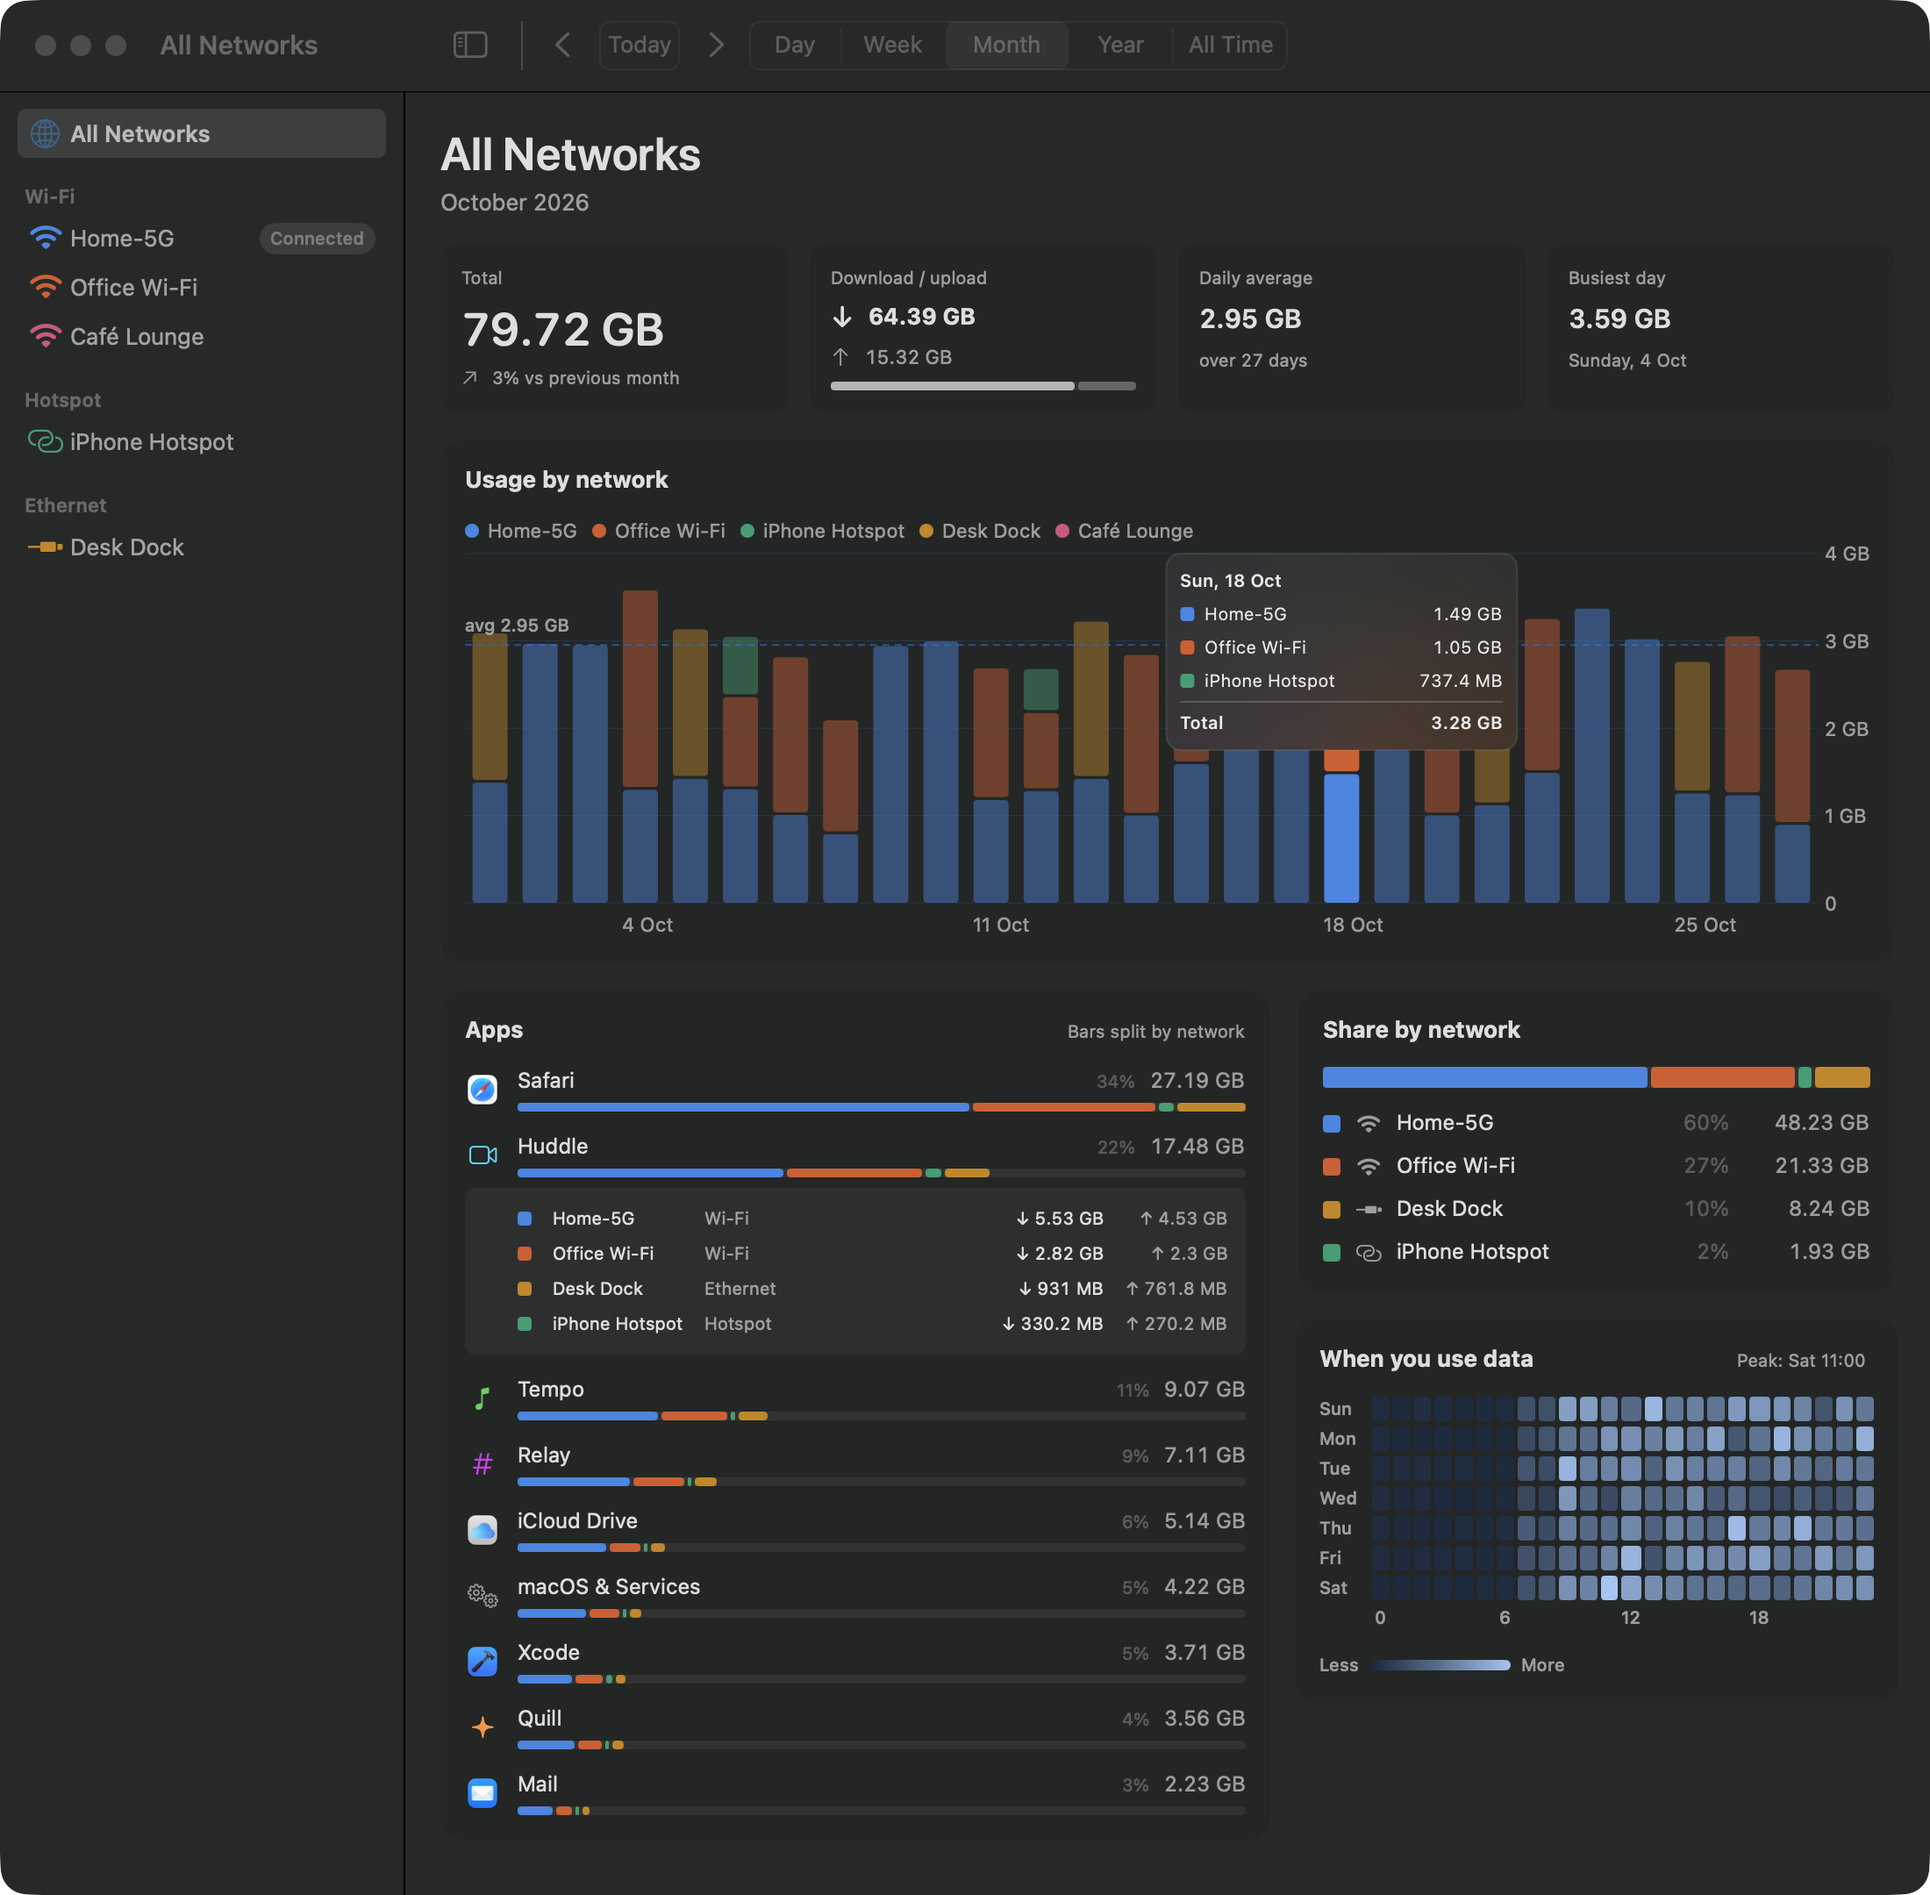
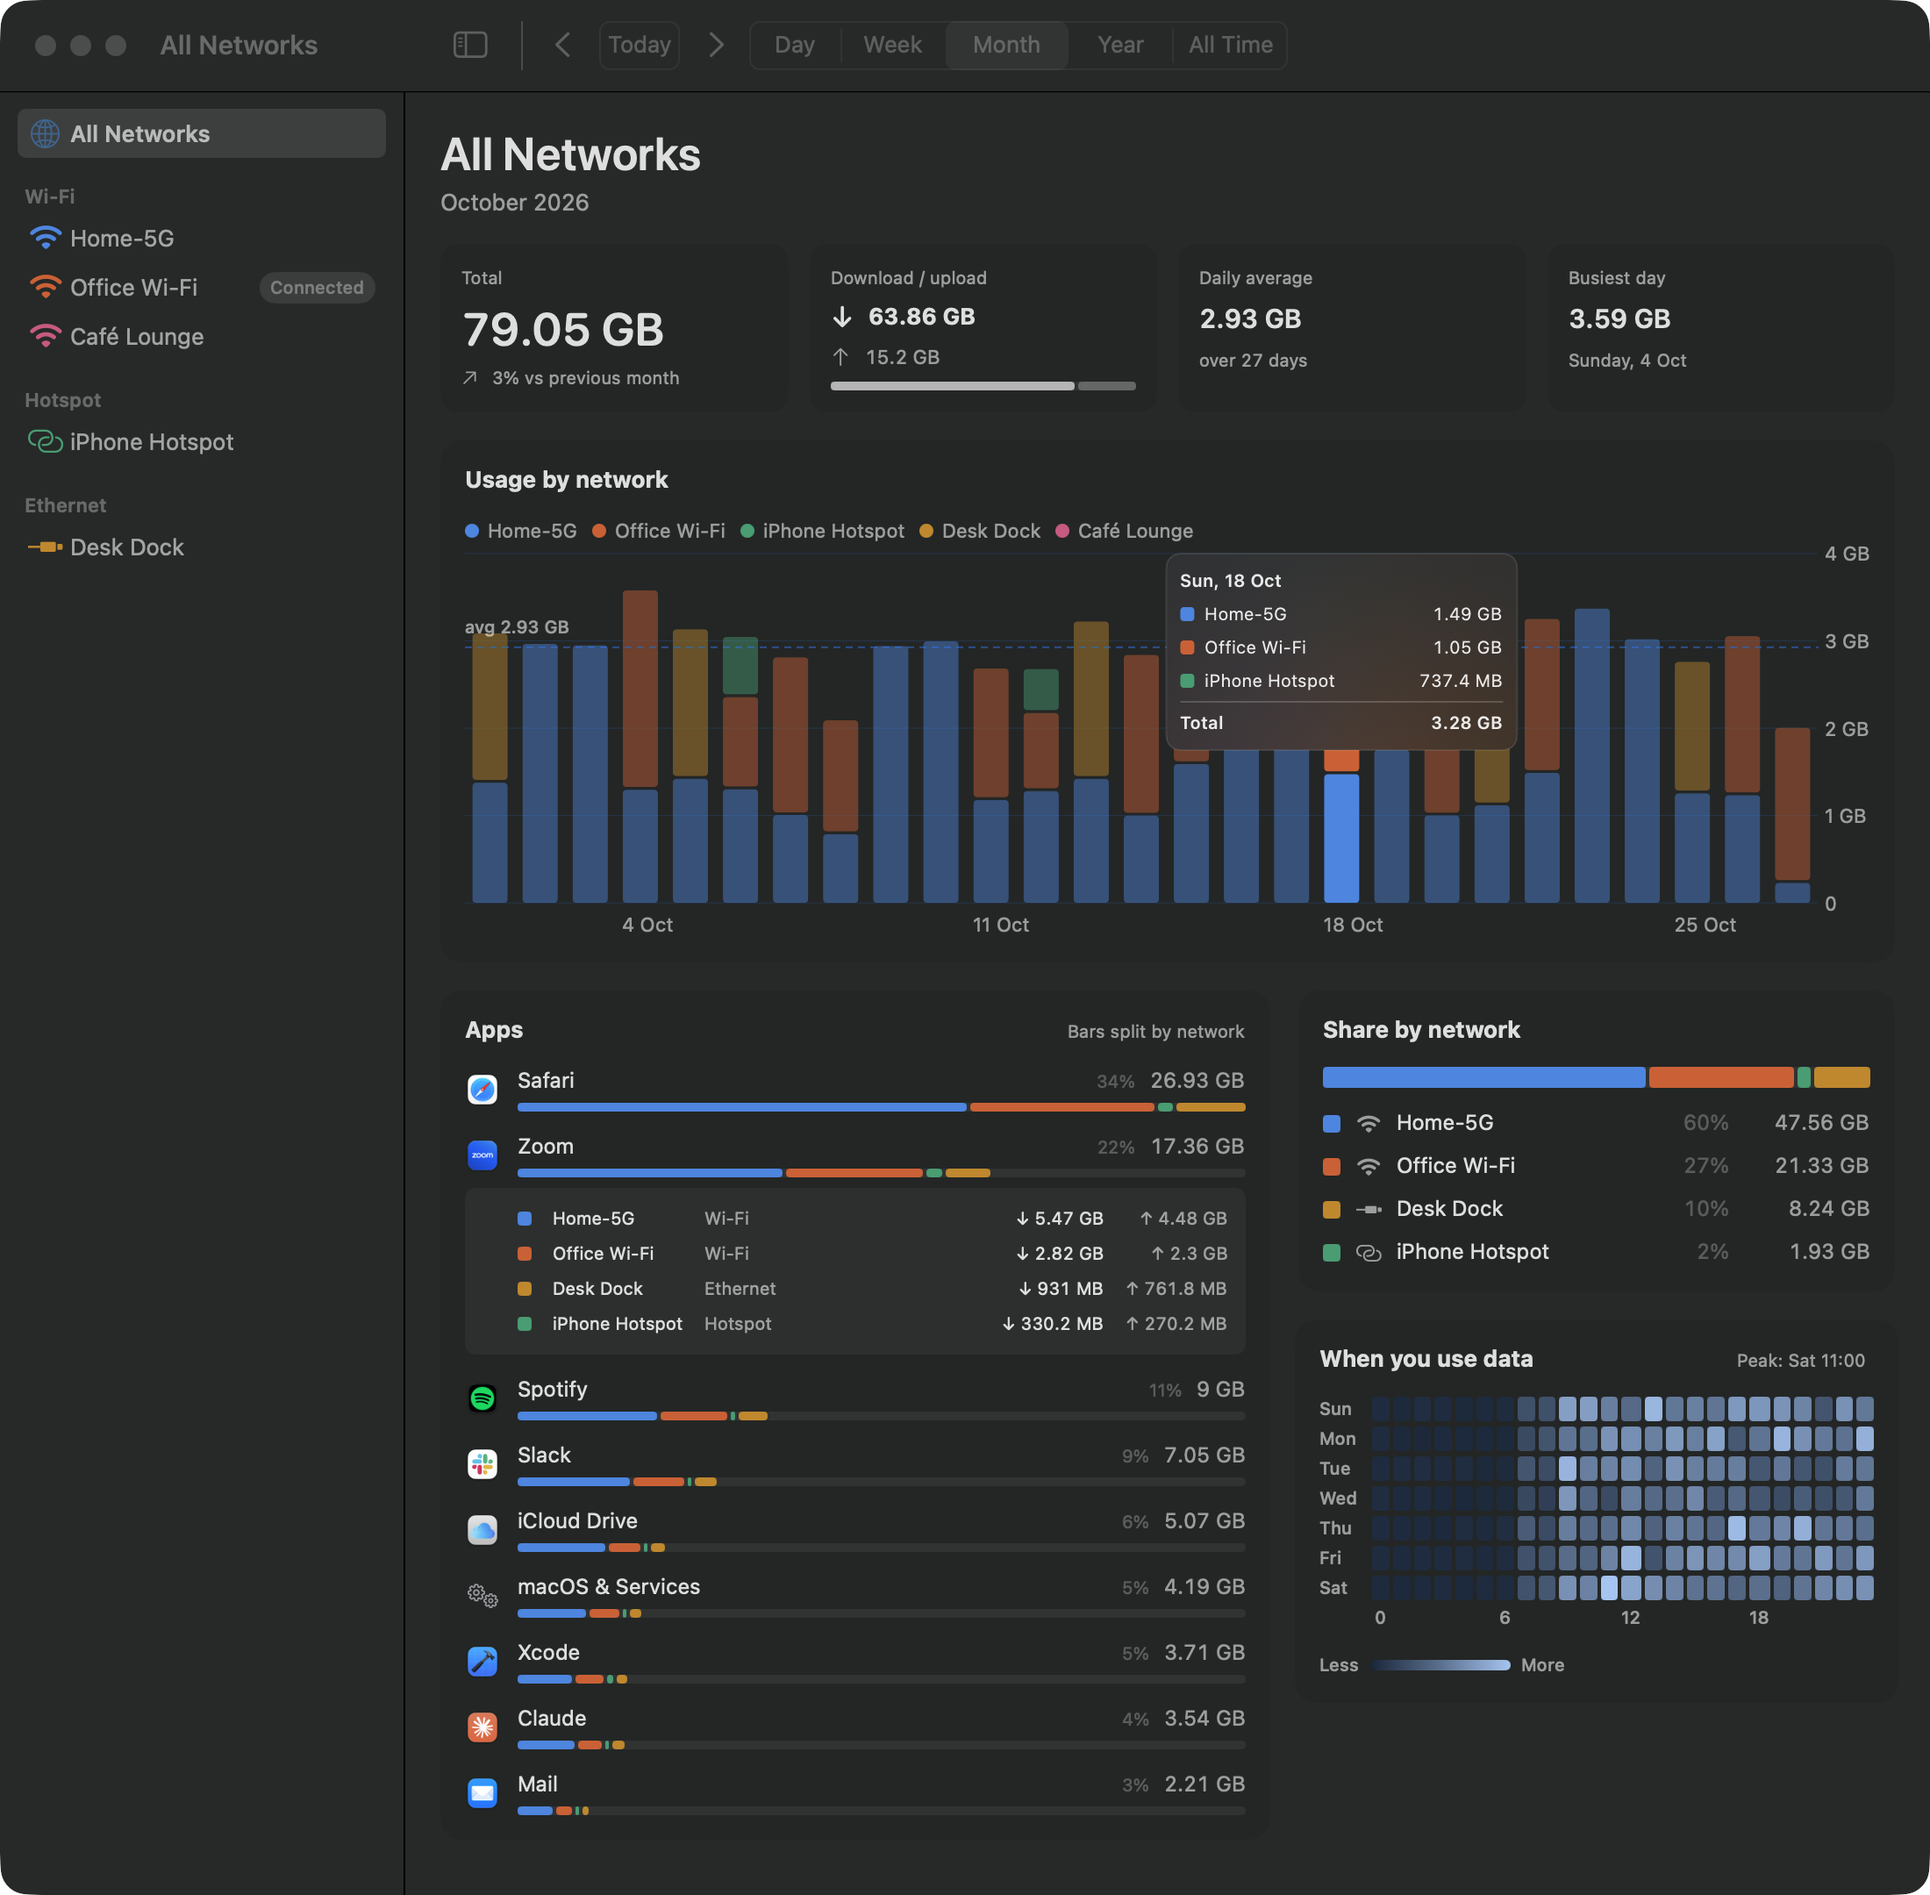
docs(mockups): show real apps in the prototype screens
- Replace the placeholder apps Huddle, Tempo, Relay and Quill in the UI prototype's mock data with Zoom, Spotify, Slack and Claude, so the README screenshots show apps a reader recognizes
- Re-render the popover, history and island mockups; their app icons come from the apps installed on the rendering Mac

diff --git a/prototypes/ui-spike/Sources/Soroband/Snapshot.swift b/prototypes/ui-spike/Sources/Soroband/Snapshot.swift
@@ -10,7 +10,7 @@ enum Snapshot {
             let windows = [
                 ("popover", show(PopoverView().environment(store).environment(island), size: nil, at: CGPoint(x: 40, y: 200), titled: false)),
                 ("history", show(HistoryView().environment(store), size: CGSize(width: 1100, height: 900), at: CGPoint(x: 440, y: 60), titled: true)),
-                ("history-expanded", show(HistoryView(expandedApp: "org.example.huddle", hoverDate: .now.addingTimeInterval(-9 * 86_400)).environment(store), size: CGSize(width: 1100, height: 1000), at: CGPoint(x: 600, y: 0), titled: true)),
+                ("history-expanded", show(HistoryView(expandedApp: "us.zoom.xos", hoverDate: .now.addingTimeInterval(-9 * 86_400)).environment(store), size: CGSize(width: 1100, height: 1000), at: CGPoint(x: 600, y: 0), titled: true)),
                 ("settings", show(SettingsView().environment(store).environment(island), size: CGSize(width: 560, height: 380), at: CGPoint(x: 40, y: 900), titled: true)),
                 ("settings-island", show(SettingsView(tab: "island").environment(store).environment(island), size: CGSize(width: 560, height: 640), at: CGPoint(x: 80, y: 300), titled: true)),
                 ("island-moments", show(momentGallery(), size: CGSize(width: 1000, height: 12 * 170), at: CGPoint(x: 300, y: 0), titled: false)),

diff --git a/prototypes/ui-spike/Sources/Soroband/UsageStore.swift b/prototypes/ui-spike/Sources/Soroband/UsageStore.swift
@@ -99,10 +99,10 @@ final class UsageStore {
 
     private static let mockApps: [(id: String, name: String, symbol: String, tint: Color, mbPerHour: Double, upShare: Double, chance: Double)] = [
         ("com.apple.Safari", "Safari", "safari", .blue, 70, 0.06, 0.9),
-        ("org.example.huddle", "Huddle", "video", .cyan, 180, 0.45, 0.25),
-        ("org.example.tempo", "Tempo", "music.note", .green, 45, 0.02, 0.5),
-        ("org.example.relay", "Relay", "number", .purple, 18, 0.15, 0.95),
-        ("org.example.quill", "Quill", "sparkle", .orange, 12, 0.3, 0.7),
+        ("us.zoom.xos", "Zoom", "video", .cyan, 180, 0.45, 0.25),
+        ("com.spotify.client", "Spotify", "music.note", .green, 45, 0.02, 0.5),
+        ("com.tinyspeck.slackmacgap", "Slack", "number", .purple, 18, 0.15, 0.95),
+        ("com.anthropic.claudefordesktop", "Claude", "sparkle", .orange, 12, 0.3, 0.7),
         ("com.apple.dt.Xcode", "Xcode", "hammer", .blue, 60, 0.02, 0.15),
         ("com.apple.bird", "iCloud Drive", "icloud", .teal, 30, 0.5, 0.4),
         ("com.apple.mail", "Mail", "envelope", .blue, 6, 0.2, 0.9),
